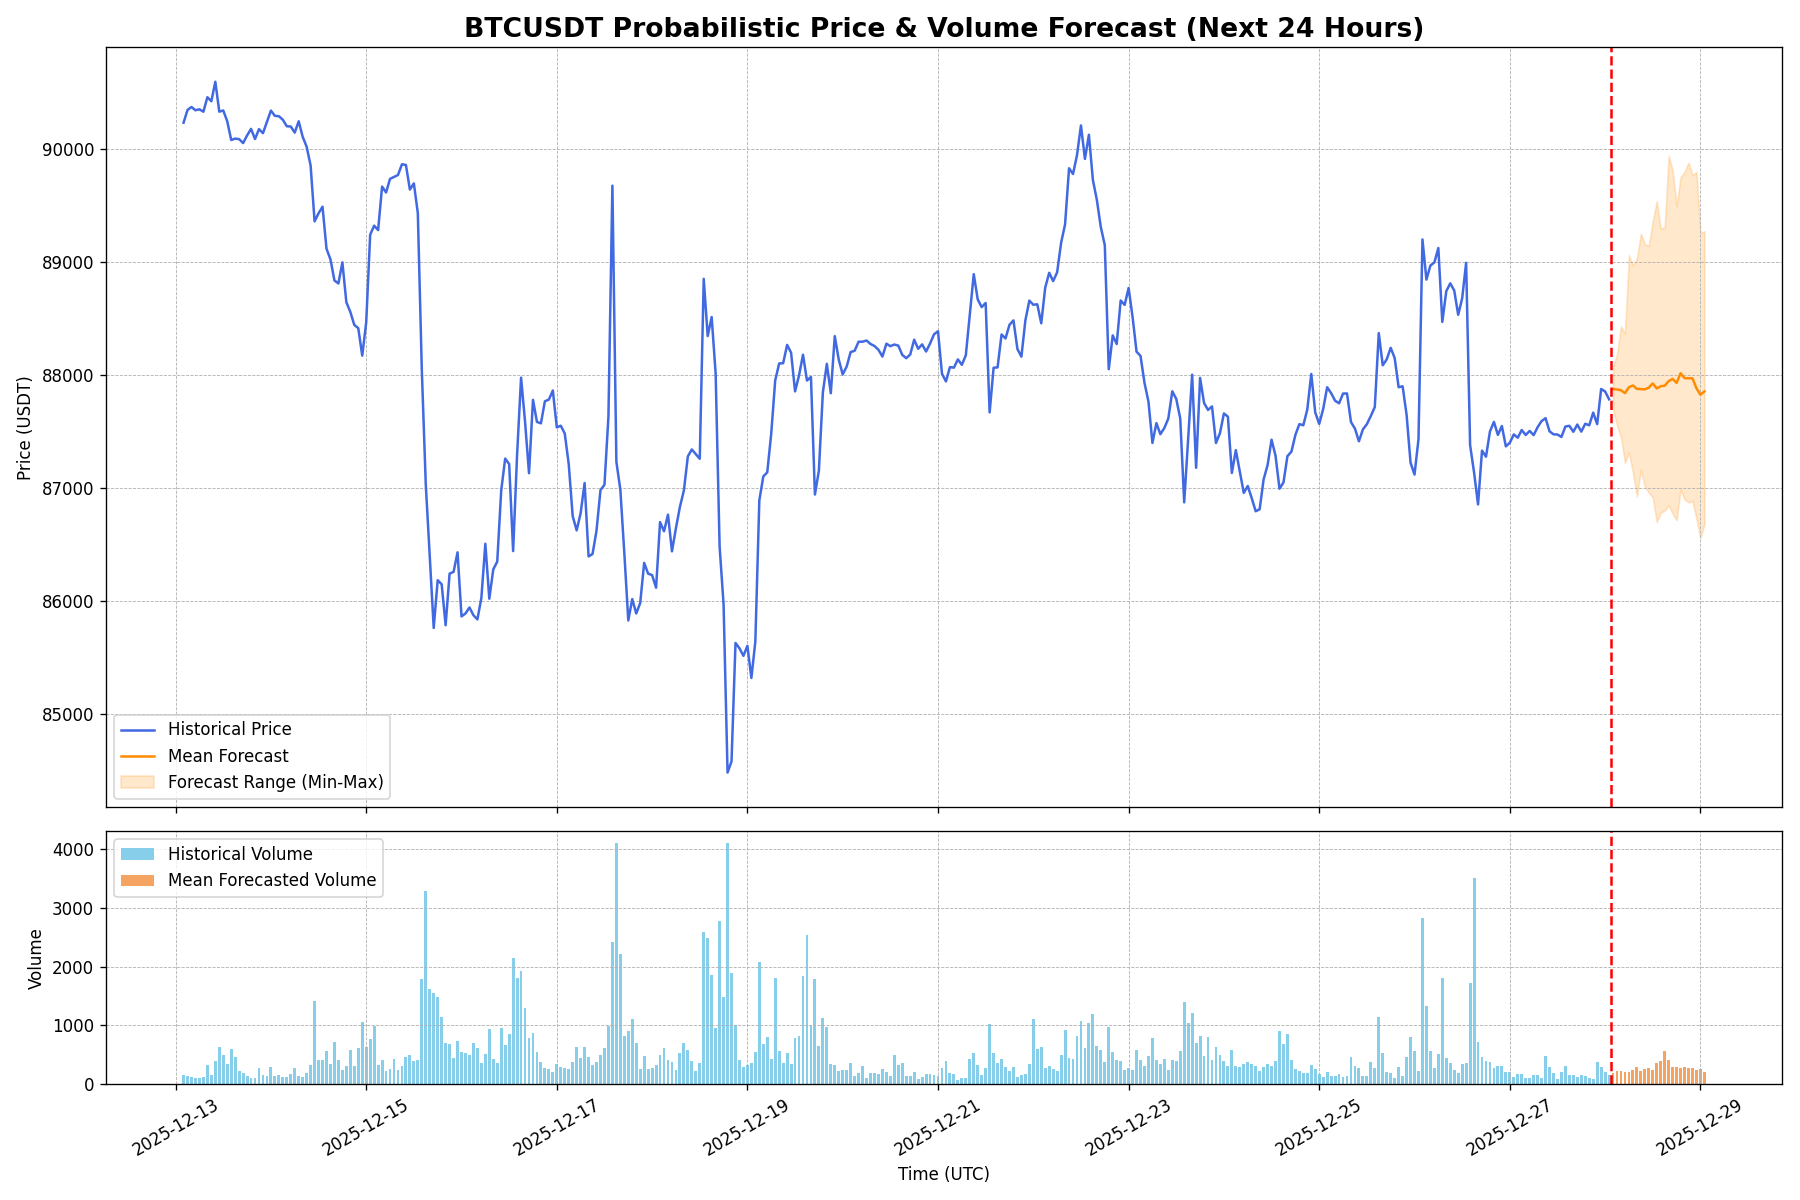
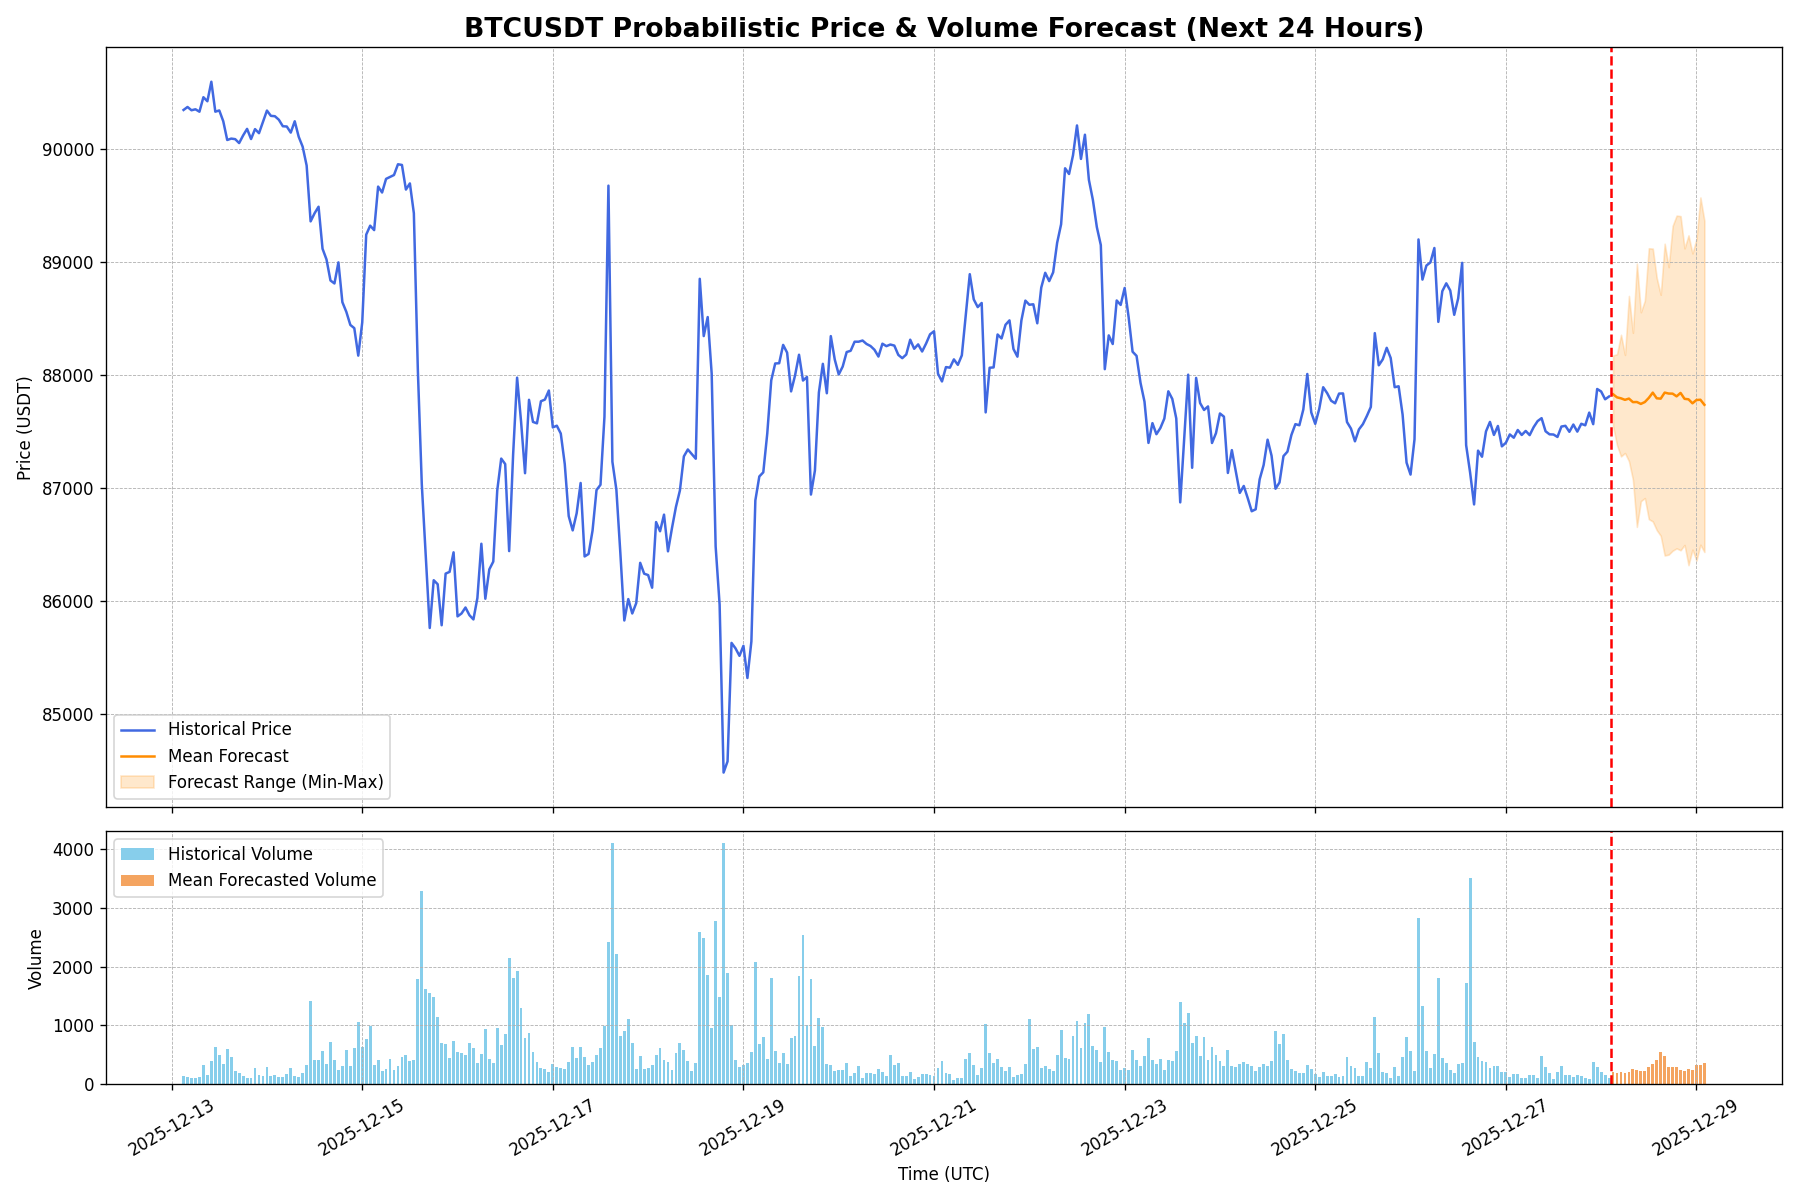
Auto-update forecast for 2025-12-28 03:00 UTC

diff --git a/index.html b/index.html
@@ -22,14 +22,14 @@
         <section id="live-dashboard">
             <h2>Live BTC/USDT Forecast Dashboard</h2>
             <div class="metadata">
-                <span>Last Updated (UTC): <strong id="update-time">2025-12-28 02:00:43</strong></span>
+                <span>Last Updated (UTC): <strong id="update-time">2025-12-28 03:00:43</strong></span>
                 <span>Data Source: Binance | Interval: 1-Hour</span>
             </div>
 
             <div class="metrics-container">
                 <div class="metric-card">
                     <h3>Upside Probability (Next 24h)</h3>
-                    <p class="metric-value" id="upside-prob">50.0%</p>
+                    <p class="metric-value" id="upside-prob">36.7%</p>
                     <div class="metric-desc">The model's confidence that the price in 24 hours will be higher than the last known price.</div>
                 </div>
                 <div class="metric-card">
